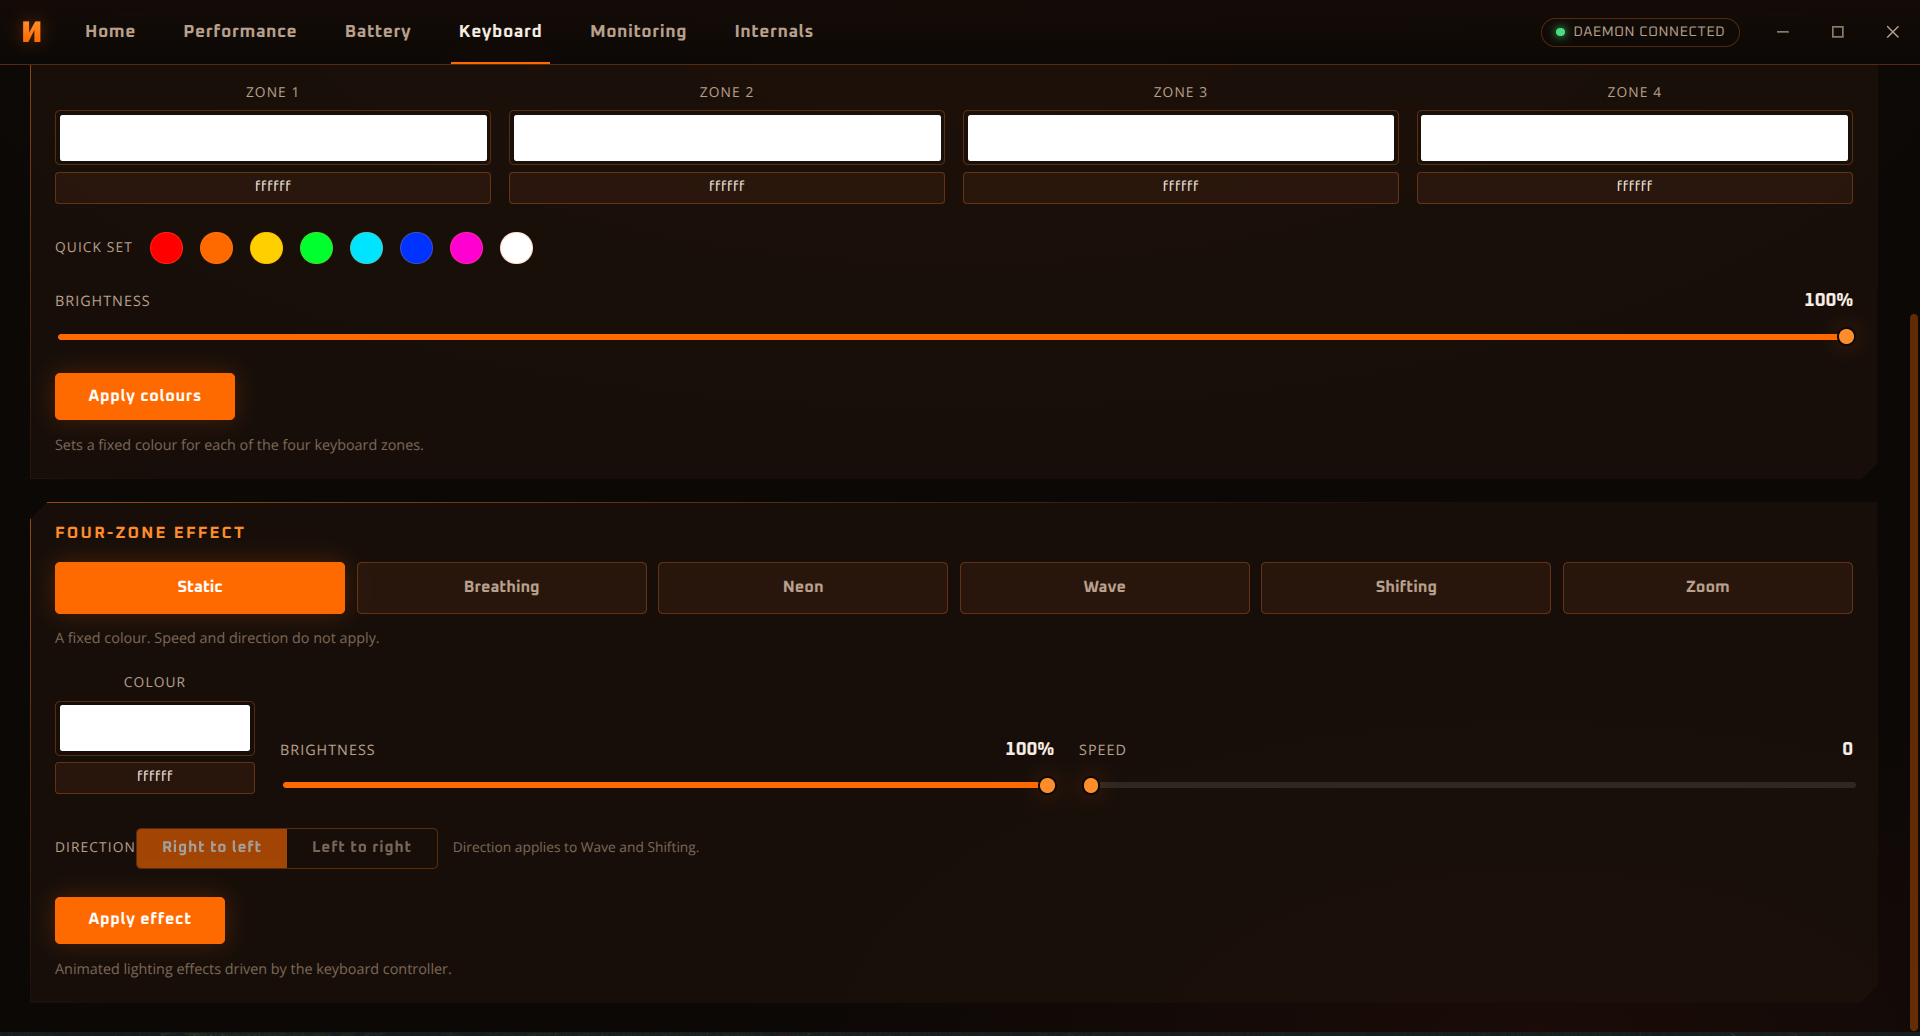
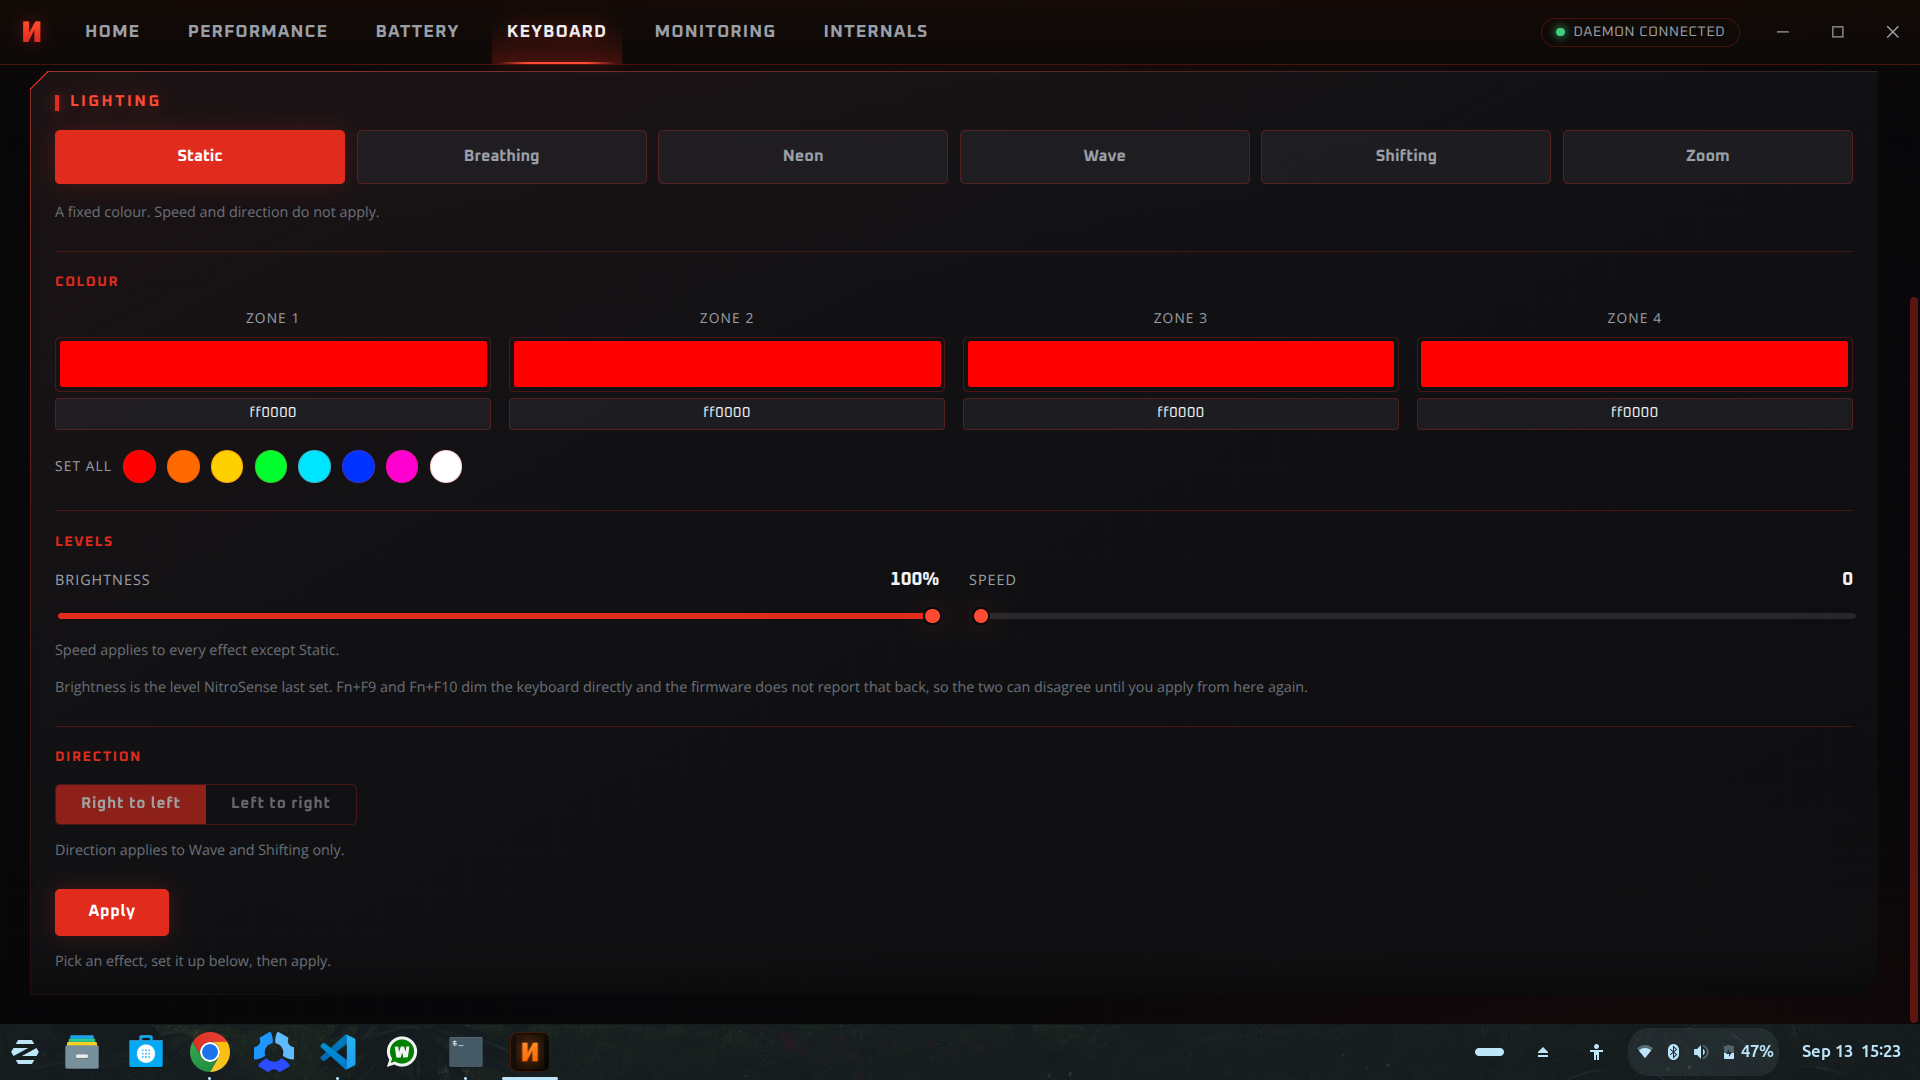
Update the screenshots for the new interface
All retaken on the AN515-45 with the daemon connected. The splash is the
full screen rather than a crop of the card.

diff --git a/README.md b/README.md
@@ -29,21 +29,90 @@ Check your model first:
 cat /sys/class/dmi/id/product_name
 ```
 
-- **Nitro AN515-45** 👉 should work exactly as described
-- **Another AN515** 👉 likely works, the keyboard lighting may need a quirk
-  entry adding (see `patches/`)
-- **Predator or other Acer** 👉 untested, no idea
+- **Nitro AN515-45** 👉 tested, works as described
+- **AN515-46, AN515-58, AN517-54, AN16-41, AN16-43, ANV15-41, ANV15-51**
+  👉 good chance, the driver already recognises these
+- **Other models in the list below** 👉 same lighting hardware, but the driver
+  needs a quirk entry adding for yours first
+- **Predator or other Acer** 👉 no idea, nothing to go on
 
-Two things decide whether the keyboard lighting works on a given model: the
-driver needs a DMI entry for it, and the Fn key has to report a keycode the
-desktop can see. Both are covered in `patches/` for the AN515-45.
+### 🧩 Models with the same keyboard hardware
+
+Only the AN515-45 has been tested, and only that one is claimed to work. But
+Acer's own Windows installer ships a per-model config, and every model below
+declares identical keyboard lighting: `LightingType Type:1`, four zones, no
+per-key. So the lighting side of this has a fair chance on any of them.
+
+```
+AN515-43   AN515-44   AN515-45   AN515-46   AN515-47   AN515-51s
+AN515-54   AN515-55   AN515-56   AN515-57   AN515-58
+AN517-41   AN517-42   AN517-43   AN517-51   AN517-52
+AN517-53   AN517-54   AN517-55
+AN715-41   AN715-51   AN715-52
+```
+
+That is a statement about the hardware, not a promise about the software. Fan
+control, power modes and battery limits go through different firmware calls and
+may behave differently on any of them.
+
+### 🔧 Adding your model
+
+Two things decide whether the keyboard lighting works: the driver needs a DMI
+entry for your model, and the Fn key has to report a keycode the desktop can
+see. Both are covered in `patches/` for the AN515-45, and the DMI entry is a
+few lines.
+
+Find your product name:
+
+```bash
+cat /sys/class/dmi/id/product_name
+```
+
+Then copy the `quirk_acer_nitro_an515_45` block and its `dmi_system_id` entry in
+`patches/linuwu-sense-an515-45-rgb.patch`, changing the name to match. If the
+four-zone files appear under
+`/sys/devices/platform/acer-wmi/four_zoned_kb/` after a rebuild, it worked.
+
+A pull request adding your model is welcome, though nobody here can test it.
 
 ### Needs
 
+The installer checks all of this on your machine and tells you what is
+missing, with the command to fix it. Nothing here has to be sorted out first.
+
+**Required**, and pulled in automatically by `apt`:
+
+- `python3`, for the background service
+- `gcc` and `make`, to build the driver
+- `policykit-1`, so the app can offer to start the service for you
+
+**Required, but you have to install it yourself:**
+
+```bash
+sudo apt install linux-headers-$(uname -r)
+```
+
+The package name carries your kernel version, so it cannot be a fixed
+dependency. Without it the app installs and runs, but every hardware control
+shows as unavailable until the driver can be built.
+
+**Optional:**
+
+- the NVIDIA driver, for discrete GPU temperature, clock and utilisation.
+  Without it those readings stay blank; everything else is unaffected, and the
+  integrated GPU is read straight from sysfs.
+
+**Also:**
+
 - a GNOME based desktop for the NitroSense key shortcut (the rest works
   anywhere)
-- kernel headers, gcc and make, to build the driver at install time
 - Secure Boot off, or the module signed yourself, since it is out of tree
+
+If something was missing at install time, fix it and then rebuild the driver:
+
+```bash
+sudo dpkg-reconfigure nitrosense
+```
 
 ![app icon](app/build/icons/128x128.png)
 
@@ -98,8 +167,8 @@ applies to Wave and Shifting.
 
 ![Keyboard effects](screenshots/05-keyboard-effects.png)
 
-**Monitoring.** Temperature and utilisation over time, plus every sensor the
-machine exposes.
+**Monitoring.** Temperature and utilisation over time for the CPU, both GPUs
+and memory, plus every sensor the machine exposes.
 
 ![Monitoring tab](screenshots/06-monitoring.png)
 
